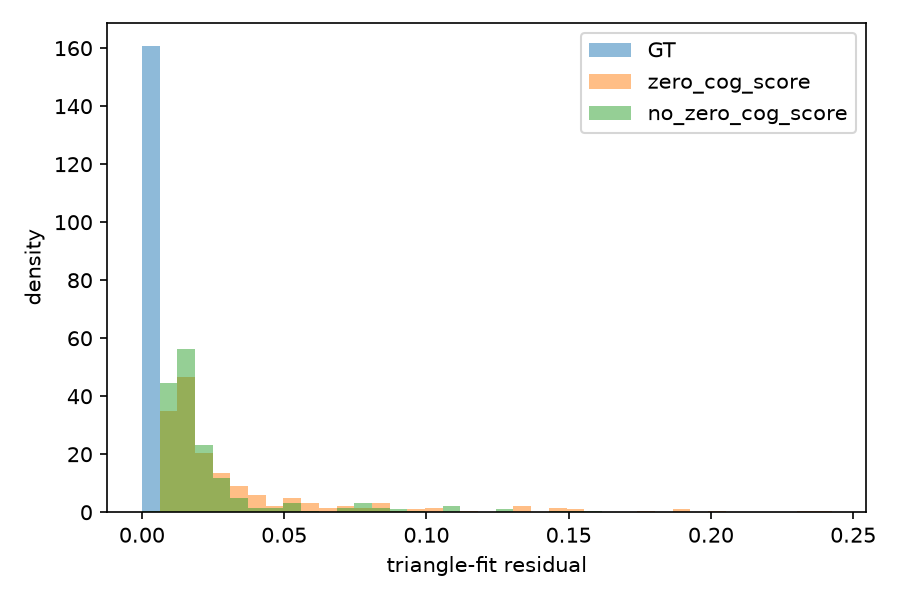
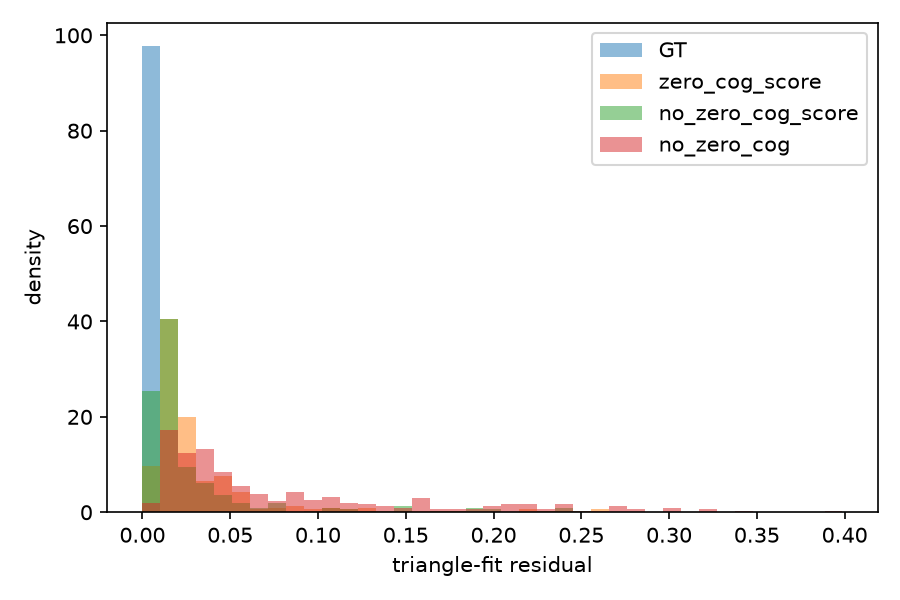
Evaluate the performance between no zero cog training target, zero cog training target but not scatter centered score, zero cog training target and scatter centered score. Results seems to contradict intuition.

diff --git a/src/evaluate_shape.py b/src/evaluate_shape.py
@@ -125,33 +125,46 @@ def residuals(clouds, L, name=""):
 if __name__ == "__main__":
  
     # ---- load checkpoints --------------------------------------------------
-    gnn_zero_cog_score = LitVanillaGNN.load_from_checkpoint(
-        "wandb_logs/diffusion-playground/jscl5f50/checkpoints/epoch=399-step=12800.ckpt",
+    DEVICE = torch.device("cuda" if torch.cuda.is_available() else "cpu")
+
+    gnn_no_zero_cog = LitVanillaGNN.load_from_checkpoint(
+        "checkpoints/20260623_173456/ptiGNN_shapes_triangle_no_zero_cog/last.ckpt",
         weights_only=False,
+        map_location=DEVICE,
+    )
+    gnn_zero_cog_score = LitVanillaGNN.load_from_checkpoint(
+        "checkpoints/20260623_173456/ptiGNN_shapes_triangle_zero_cog_score/last.ckpt",
+        weights_only=False,
+        map_location=DEVICE,
     )
     gnn_no_zero_cog_score = LitVanillaGNN.load_from_checkpoint(
-        "wandb_logs/diffusion-playground/9rveuph1/checkpoints/epoch=399-step=12800.ckpt",
+        "checkpoints/20260623_173456/ptiGNN_shapes_triangle_no_zero_cog_score/last.ckpt",
         weights_only=False,
+        map_location=DEVICE,
     )
+    gnn_no_zero_cog.eval()
     gnn_zero_cog_score.eval()
     gnn_no_zero_cog_score.eval()
  
-    # sample_backward_graph builds its prior graphs on CPU, so keep the score
-    # networks on CPU too — otherwise the CPU input hits CUDA weights and you get
-    # "Expected all tensors to be on the same device". (Eval over 300 graphs is
-    # cheap on CPU; move to CUDA only if the diffusion threads a device through.)
-    DEVICE = "cpu"
+    # Keep diffusion + score nets on the same device. sample_backward_graph
+    # creates graph/time tensors on CUDA when available.
+    gnn_no_zero_cog.to(DEVICE)
     gnn_zero_cog_score.to(DEVICE)
     gnn_no_zero_cog_score.to(DEVICE)
+
+    tdm_model_no_zero_cog = TDMDiffusion(
+        dim=2, integrator_type="Euler",
+        simplified_param=True, zero_cog=False, zero_cog_score=False,
+    ).to(DEVICE)
  
     tdm_model = TDMDiffusion(
         dim=2, integrator_type="Euler",
         simplified_param=True, zero_cog=True, zero_cog_score=True,
-    )
+    ).to(DEVICE)
     tdm_model_no_zero_cog_score = TDMDiffusion(
         dim=2, integrator_type="Euler",
         simplified_param=True, zero_cog=True, zero_cog_score=False,
-    )
+    ).to(DEVICE)
  
     # ---- sample both groups ------------------------------------------------
     graph_num = 300
@@ -178,9 +191,13 @@ if __name__ == "__main__":
     (ft_list_no, vt_list_no, t_list_no) = tdm_model_no_zero_cog_score.sample_backward_graph(
         tdm_score_fn=gnn_no_zero_cog_score.forward_from_data, **sample_kwargs
     )
+    (ft_list_no_zero_cog, vt_list_no_zero_cog, t_list_no_zero_cog) = tdm_model_no_zero_cog.sample_backward_graph(
+        tdm_score_fn=gnn_no_zero_cog.forward_from_data, **sample_kwargs
+    )
  
     f0 = ft_list[-1]                  # generated shapes at t = 0
     f0_no_zero_cog_score = ft_list_no[-1]
+    f0_no_zero_cog = ft_list_no_zero_cog[-1]
  
     # ---- ground-truth triangles -------------------------------------------
     # Shapes_Dataset returns (points, corner_mask) with points in [0, 1).
@@ -197,10 +214,11 @@ if __name__ == "__main__":
  
     g_a = split_graphs(f0, graph_nodes)                    # zero_cog_score = True
     g_b = split_graphs(f0_no_zero_cog_score, graph_nodes)  # zero_cog_score = False
- 
+    g_c = split_graphs(f0_no_zero_cog, graph_nodes)  # zero_cog = False
     print("=== validity (drop) counts ===")
-    r_a = residuals(g_a, L, name="zero_cog")
-    r_b = residuals(g_b, L, name="no_zero_cog")
+    r_a = residuals(g_a, L, name="zero_cog_score")
+    r_b = residuals(g_b, L, name="no_zero_cog_score")
+    r_c = residuals(g_c, L, name="no_zero_cog")
     r_gt = residuals(gt_clouds, L, name="GT")
  
     # ---- report ------------------------------------------------------------
@@ -211,20 +229,23 @@ if __name__ == "__main__":
  
     print("\n=== triangle-fit residual (lower = more triangle-like) ===")
     report("GT", r_gt, r_gt)
-    report("zero_cog", r_a, r_gt)
-    report("no_zero_cog", r_b, r_gt)
+    report("zero_cog_score", r_a, r_gt)
+    report("no_zero_cog_score", r_b, r_gt)
+    report("no_zero_cog", r_c, r_gt)
  
-    print(f"\nKS(zero_cog vs no_zero_cog): D={ks_2samp(r_a, r_b).statistic:.3f}  "
+    print(f"\nKS(zero_cog_score vs no_zero_cog_score): D={ks_2samp(r_a, r_b).statistic:.3f}  "
           f"p={ks_2samp(r_a, r_b).pvalue:.3g}")
-    print(f"KS(zero_cog vs GT):          D={ks_2samp(r_a, r_gt).statistic:.3f}")
-    print(f"KS(no_zero_cog vs GT):       D={ks_2samp(r_b, r_gt).statistic:.3f}")
+    print(f"KS(zero_cog_score vs GT):          D={ks_2samp(r_a, r_gt).statistic:.3f}")
+    print(f"KS(no_zero_cog_score vs GT):       D={ks_2samp(r_b, r_gt).statistic:.3f}")
+    print(f"KS(no_zero_cog vs GT):       D={ks_2samp(r_c, r_gt).statistic:.3f}")
  
     # ---- one-glance plot ---------------------------------------------------
     plt.figure(figsize=(6, 4))
-    bins = np.linspace(0, max(r_a.max(), r_b.max(), r_gt.max()), 40)
-    plt.hist(r_gt, bins, alpha=.5, density=True, label="GT")
+    bins = np.linspace(0, max(r_a.max(), r_b.max(), r_c.max(), r_gt.max()), 40)
+    # plt.hist(r_gt, bins, alpha=.5, density=True, label="GT")
     plt.hist(r_a, bins, alpha=.5, density=True, label="zero_cog_score")
     plt.hist(r_b, bins, alpha=.5, density=True, label="no_zero_cog_score")
+    plt.hist(r_c, bins, alpha=.5, density=True, label="no_zero_cog")
     plt.xlabel("triangle-fit residual")
     plt.ylabel("density")
     plt.legend()

diff --git a/src/data.py b/src/data.py
@@ -642,16 +642,16 @@ class PyGGraphWrapper(Dataset):
         )
         return data
 
-def make_random_graph(num_nodes, dim, self_loops=False, scale_range: tuple[float, float] = (-torch.pi, torch.pi), distribution_kw: Literal["uniform", "normal"] = "uniform", seed: int | None = None):
+def make_random_graph(num_nodes, dim, self_loops=False, scale_range: tuple[float, float] = (-torch.pi, torch.pi), distribution_kw: Literal["uniform", "normal"] = "uniform", device: torch.device = torch.device("cpu"), seed: int | None = None):
     # x and pos are the same, sampled uniformly in [0, 1)
     if seed is not None:
         generator = torch.Generator().manual_seed(seed)
     else:
         generator = None
     if distribution_kw == "uniform":
-        pos = torch.rand(num_nodes, dim, generator=generator) * (scale_range[1] - scale_range[0]) + scale_range[0]
+        pos = torch.rand(num_nodes, dim, generator=generator, device=device) * (scale_range[1] - scale_range[0]) + scale_range[0]
     elif distribution_kw == "normal":
-        pos = torch.randn(num_nodes, dim, generator=generator) * (scale_range[1] - scale_range[0]) + scale_range[0]
+        pos = torch.randn(num_nodes, dim, generator=generator, device=device) * (scale_range[1] - scale_range[0]) + scale_range[0]
     else:
         raise ValueError(f"Unknown distribution_kw: {distribution_kw}")
     x = pos.clone()                       # x == pos
@@ -662,7 +662,8 @@ def make_random_graph(num_nodes, dim, self_loops=False, scale_range: tuple[float
     if not self_loops:
         mask = row != col                 # drop i == j  -> N*(N-1) edges
         row, col = row[mask], col[mask]
-    edge_index = torch.stack([row, col], dim=0)                 # [2, E]
+    edge_index = torch.stack([row, col], dim=0)      
+    edge_index = edge_index.to(device)                 # [2, E]
 
     # edge attr = difference of positions (relative vector)
     # PyG convention: edge_index[0]=source, edge_index[1]=target

diff --git a/src/diffusion.py b/src/diffusion.py
@@ -668,13 +668,17 @@ class TDMDiffusion(BaseDiffusion):
 
         assert fT_prior_kw in ["stdGauss", "uniform"]
         assert vT_prior_kw in ["stdGauss", "uniform"]
-        device, dtype = torch.device("cpu"), torch.float32
+        if torch.cuda.is_available():
+            device = "cuda"
+        else:
+            device = "cpu"
+        dtype = torch.float32
         if seed is not None:
             generator = torch.Generator().manual_seed(seed)
         else:
             generator = None
 
-        graph_list = [make_random_graph(num_nodes, data_dim, scale_range=(-torch.pi, torch.pi), seed=seed) for num_nodes in graph_nodes]
+        graph_list = [make_random_graph(num_nodes, data_dim, scale_range=(-torch.pi, torch.pi), seed=seed, device=device) for num_nodes in graph_nodes]
         total_nodes = sum(num_nodes for num_nodes in graph_nodes)
         loader = PyGDataLoader(graph_list, batch_size=len(graph_nodes), shuffle=False)
         graph_T = next(iter(loader))
